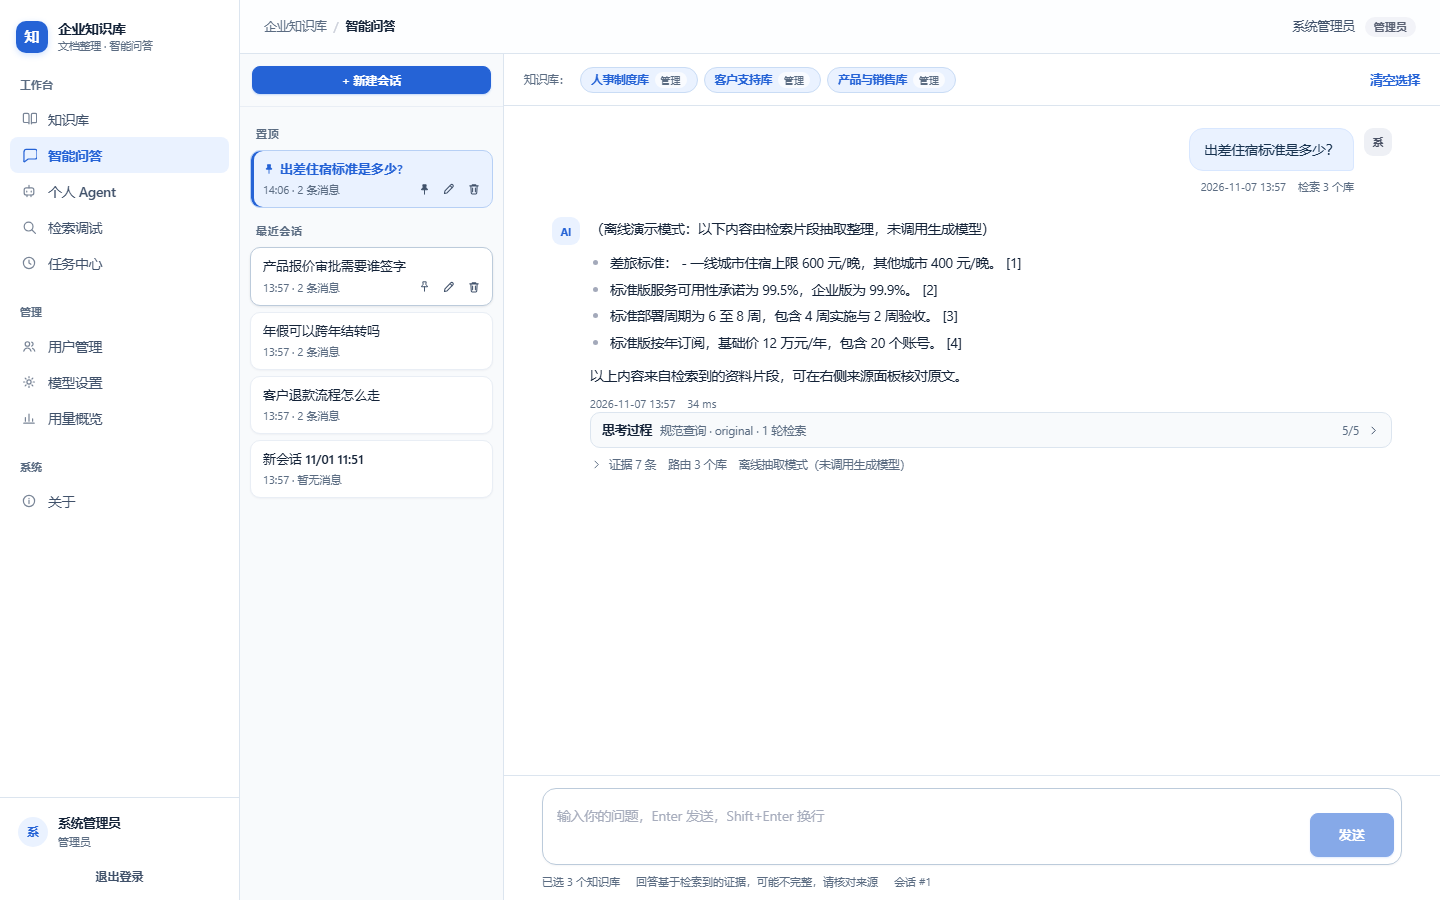
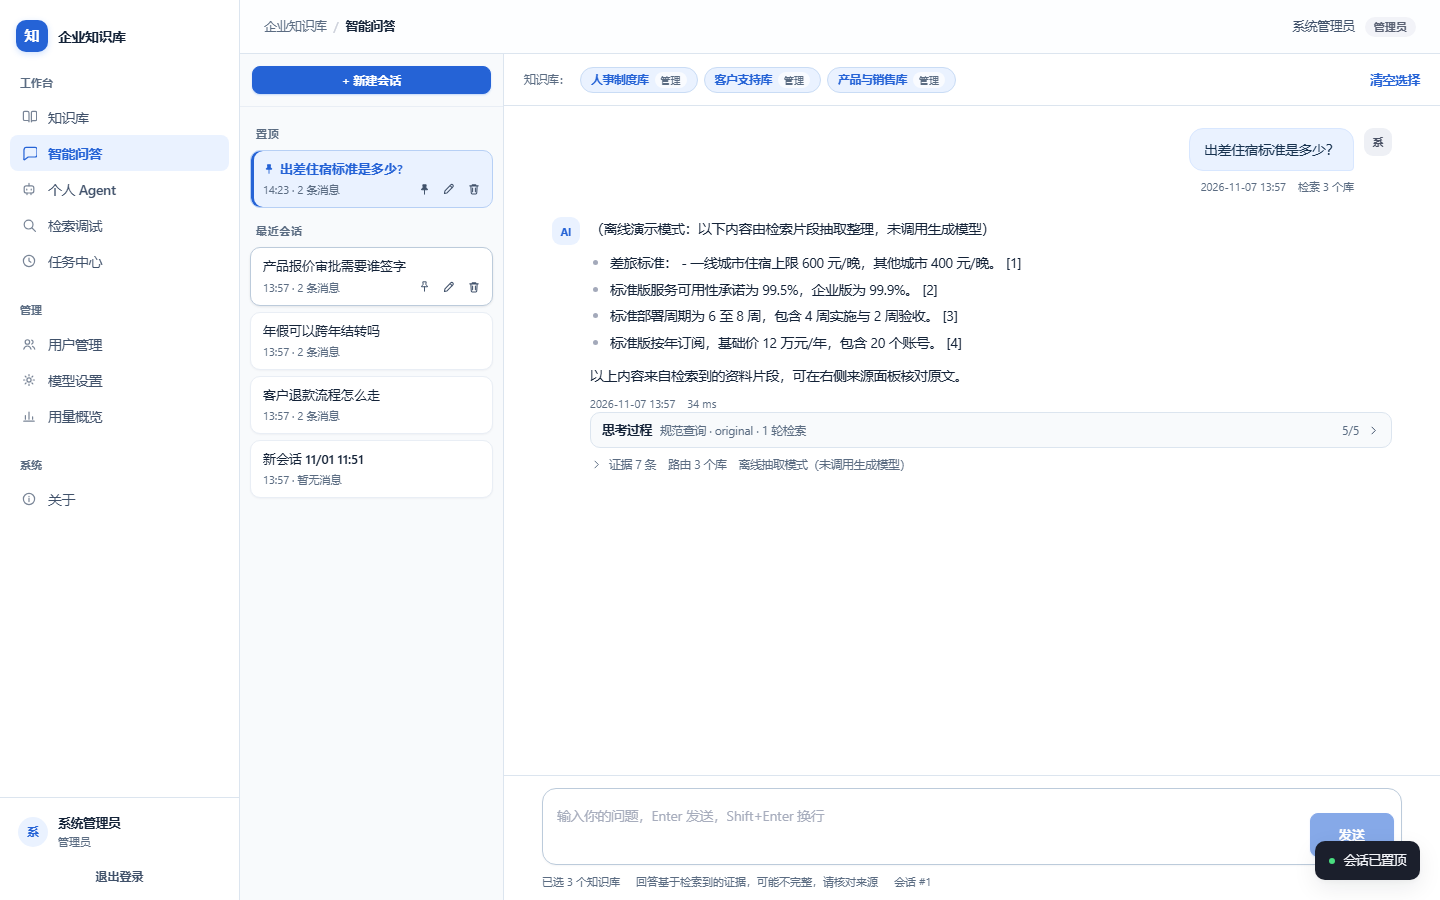
docs(chat): 刷新会话列表对比截图
基线改为改动前的 master（0d7644d，独立 worktree），改动版重新构建后
按同一视口与同一演示数据重拍，避免混入其它已合并的界面调整。

diff --git a/docs/screenshots/session-list/README.md b/docs/screenshots/session-list/README.md
@@ -1,18 +1,18 @@
 # 会话列表视觉证据
 
 同一台机器、同一套演示数据、1440×900 浅色主题、Chrome 无头浏览器；侧栏裁切为 264×846。
-基线为本分支起点 `a24d9f7`（改动前），改动为功能提交 `b4703c4`。
+基线为改动前的 `master`（`0d7644d`，独立 worktree），改动为功能提交 `a89b2fc`。
 
 | 文件 | 版本 | 场景 |
 | --- | --- | --- |
-| `before-list.png` | 基线 `a24d9f7` | 智能问答页：5 条会话平铺，无分隔、无时间与消息数、无置顶 |
-| `after-list.png` | 改动 `b4703c4` | 同一页、同一视口：卡片式条目、时间与消息数、置顶分组 |
-| `before-hover.png` | 基线 `a24d9f7` | 悬停第 2 条会话时才出现操作按钮，未悬停时条目边界不清 |
-| `after-hover.png` | 改动 `b4703c4` | 悬停同一条会话：边框高亮，操作区新增置顶按钮 |
+| `before-list.png` | 基线 `0d7644d` | 智能问答页：5 条会话平铺，无分隔、无时间与消息数、无置顶 |
+| `after-list.png` | 改动 `a89b2fc` | 同一页、同一视口：卡片式条目、时间与消息数、置顶分组 |
+| `before-hover.png` | 基线 `0d7644d` | 悬停第 2 条会话时才出现操作按钮，未悬停时条目边界不清 |
+| `after-hover.png` | 改动 `a89b2fc` | 悬停同一条会话：边框高亮，操作区新增置顶按钮 |
 | `before-sidebar.png` / `after-sidebar.png` | 同上 | 侧栏裁切，便于逐条对比 |
 
 说明：
 
-- 基线截图取自改动前的 `a24d9f7`，使用同一套演示数据与同一视口拍摄，不是把新样式隐藏后补拍。
+- 基线截图来自独立的 `git worktree`（`master` 的 `0d7644d`），不是把新样式隐藏后补拍。
 - 演示数据含 5 条会话（其中 1 条无消息）。置顶会话为「出差住宿标准是多少?」，置顶状态通过页面上的置顶按钮设置，刷新后仍然保留。
 - 回答内容为离线演示模式（未配置生成模型），与本次改动无关。
